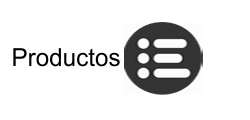
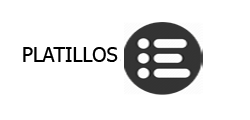
go

Changed region(s): [[0.028, 0.375, 0.504, 0.575]]

diff --git a/index.php b/index.php
@@ -63,7 +63,7 @@ if($_SESSION['access']=='Salesperson'){
 	  <tr>
 	    <th width="90" height="62" scope="col"><a href="index.php">Tablero</a></th>
 	    <th width="50" scope="col"><a href="sales.php">Ventas</a></th>
-	    <th width="80" scope="col"><a href="products.php">Productos</a></th>
+	    <th width="80" scope="col"><a href="products.php">Platillos</a></th>
 	    <th width="90" scope="col"><a href="customers.php">Clientes</a></th>
 	    <th width="90" scope="col"><a href="supplier.php">Proveedor</a></th>
 	    <th width="112" scope="col"><a href="salesreport.php">Reporte de Ventas</a></th>

diff --git a/products.php b/products.php
@@ -47,7 +47,7 @@
     <table border="0" cellpadding="0" cellspacing="0" align="center" width="80%" style="border:1px solid #033; color:#033;">
     
      <tr>
-     <th colspan="7" align="center" height="55px" style="border-bottom:1px solid #033; background: #033; color:#FFF;"> Tabla - Informacion de Productos	</th>
+     <th colspan="7" align="center" height="55px" style="border-bottom:1px solid #033; background: #033; color:#FFF;"> Tabla - Informacion de Platillos</th>
     </tr>
     
       <tr height="30px">
